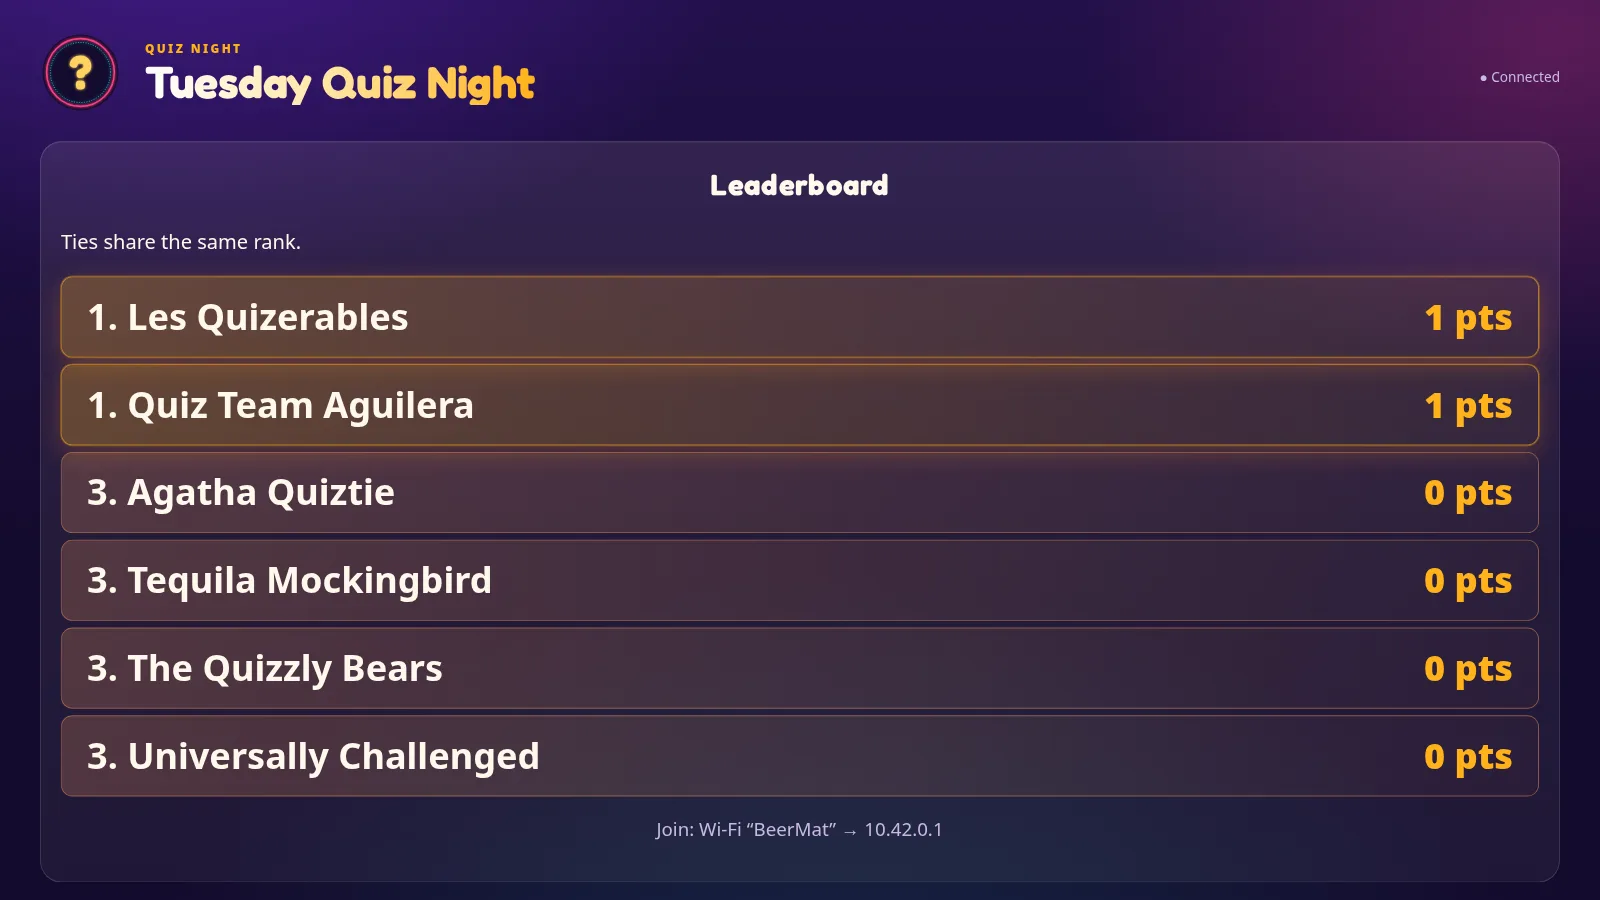
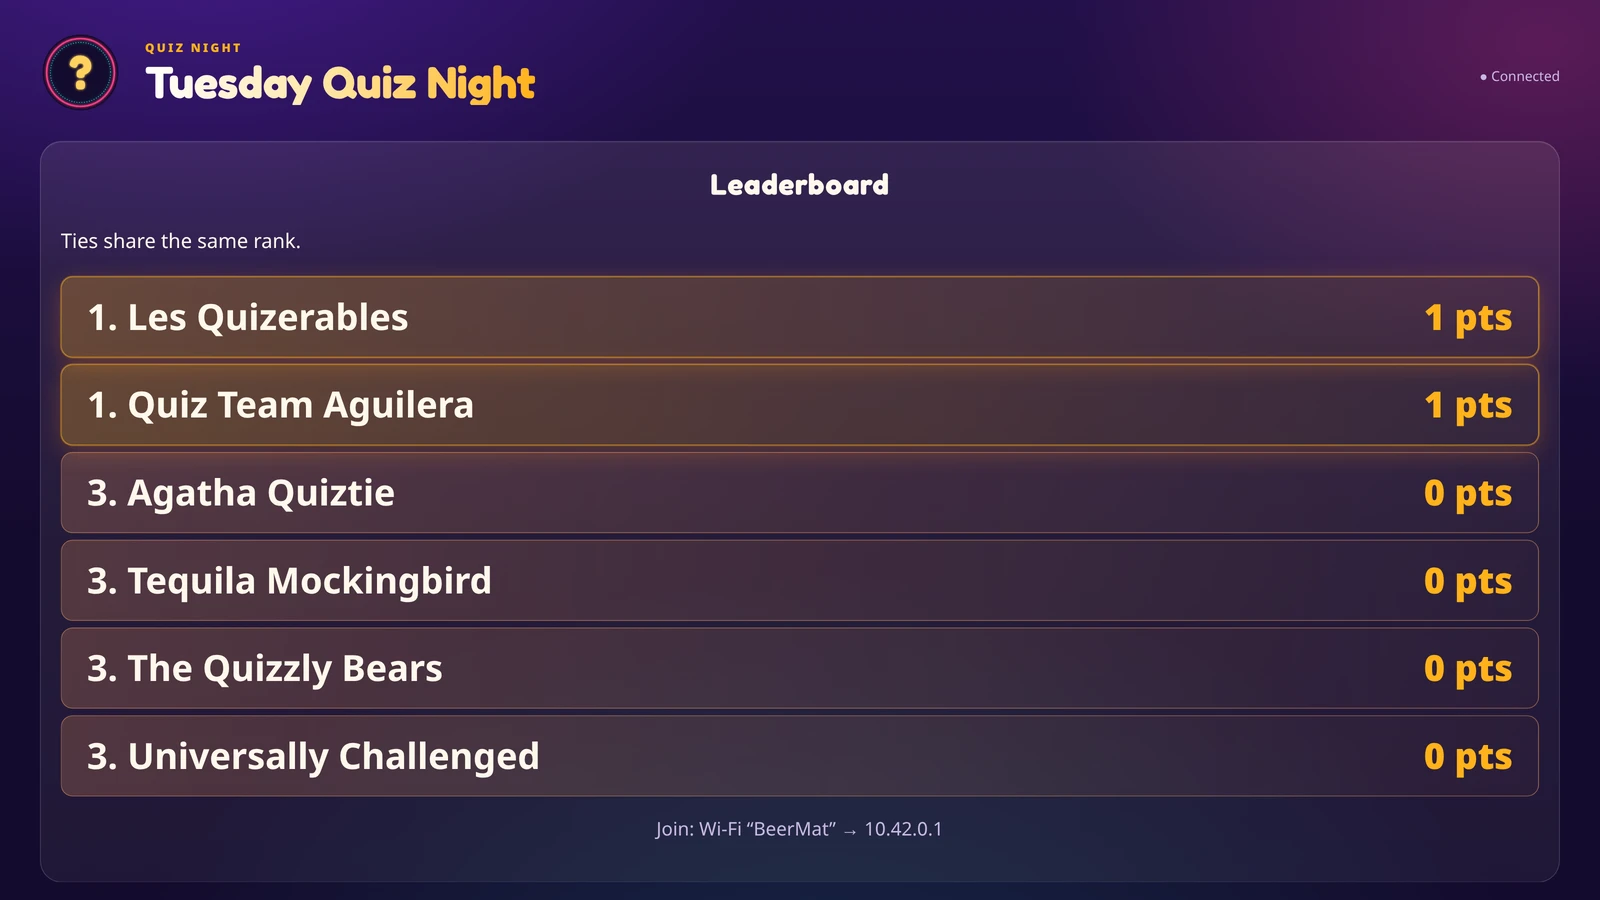
Website polish: sharper screenshots, a three-by-two format gallery, Download free
- Screenshots: the TV and desk are captured at 2× (3200 px wide) and served
  with srcset (1× and 2×), so they're sharp on high-density screens; the
  viewer always shows the 2× file. Every shot re-encoded at higher quality.
  Phone shots were already 2×.
- Round formats: three to a row on a big screen, two on a tablet, and on a
  phone one per row beside its caption, with larger previews and even
  caption spacing.
- Hero: "Download free" (not "Try it free") and "Create for free. Go Pro to
  host." as in the pricing heading.
- Header logo a size larger at every width.
- Viewer: Tab and Shift+Tab stay on its buttons, and the page behind can't
  scroll while it's open (the body is fixed, which also holds on iOS).

diff --git a/site/src/styles/global.css b/site/src/styles/global.css
@@ -73,6 +73,8 @@
 	.lightbox { width: 100vw; max-width: 100vw; height: 100dvh; max-height: 100dvh; margin: 0; padding: 0; border: 0; background: rgba(9, 5, 22, .96); color: var(--color-cream); display: none; flex-direction: column; }
 	.lightbox[open] { display: flex; }
 	.lightbox::backdrop { background: rgba(9, 5, 22, .8); }
+	/* The page behind doesn't scroll while the viewer is open. */
+	html:has(.lightbox[open]) { overflow: hidden; }
 	.lightbox-bar { display: flex; align-items: center; gap: 1rem; padding: .75rem 1rem; }
 	.lightbox-caption { flex: 1; margin: 0; font-size: .95rem; color: var(--color-cream); }
 	.lightbox-count { font-size: .85rem; color: var(--color-muted); white-space: nowrap; }
@@ -88,9 +90,18 @@
 		.lightbox-stage { padding-bottom: 4.5rem; }
 		.lightbox-hint { display: none; }
 	}
-	/* A row of phone screenshots that scrolls sideways on a phone and sits in a grid on a big screen. */
-	.phone-strip { display: grid; grid-auto-flow: column; grid-auto-columns: minmax(10.5rem, 1fr); gap: 1rem; overflow-x: auto; scroll-snap-type: x mandatory; padding-bottom: .75rem; }
-	.phone-strip > * { scroll-snap-align: start; }
+	/* Round formats: phone screenshots three to a row on a big screen, two on a tablet; on a phone, one per row beside
+	   its caption so six of them don't make a very long page. */
+	.format-gallery { display: grid; grid-template-columns: 1fr; gap: 1.75rem; list-style: none; padding: 0; }
+	.format-item { display: grid; grid-template-columns: 9.5rem 1fr; gap: 1.25rem; align-items: center; }
+	.format-caption h3 { margin-bottom: .25rem; }
+	@media (min-width: 640px) {
+		.format-gallery { grid-template-columns: repeat(2, minmax(0, 1fr)); gap: 3rem 2.5rem; }
+		.format-item { grid-template-columns: 1fr; align-items: start; gap: 1rem; }
+		.format-shot { max-width: 16.5rem; margin: 0 auto; width: 100%; }
+		.format-caption { text-align: center; }
+	}
+	@media (min-width: 1024px) { .format-gallery { grid-template-columns: repeat(3, minmax(0, 1fr)); gap: 3.5rem 3rem; } }
 	.chip { display: inline-flex; align-items: center; gap: .4rem; padding: .35rem .8rem; border-radius: 999px; border: 1px solid rgba(255, 243, 214, .15); background: rgba(255, 243, 214, .04); font-size: .9rem; color: var(--color-cream); }
 	.tick { flex: none; width: 1.25rem; height: 1.25rem; margin-top: .3rem; color: var(--color-teal); }
 	.prose h2 { font-size: 1.4rem; margin-top: 2rem; }
